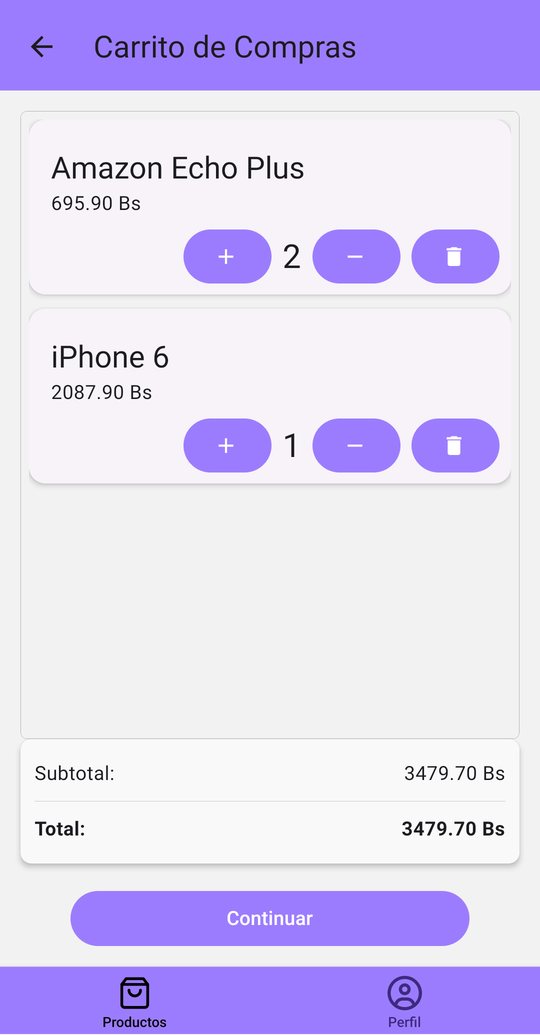
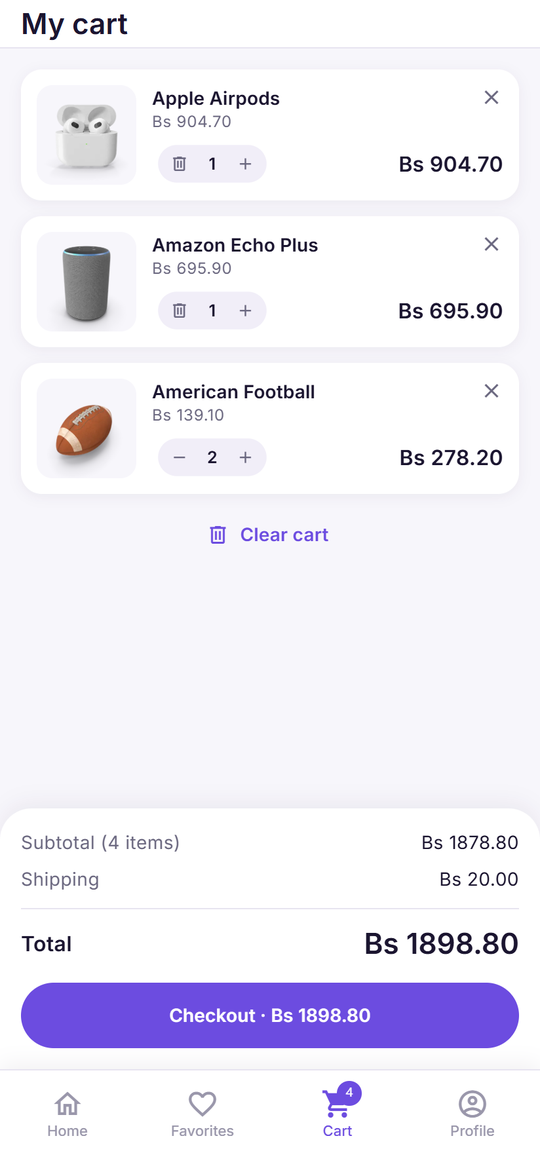
docs: refresh README and screenshots for the redesign
Document the redesigned app: new features (product detail, favorites,
three-step checkout, order timeline, profile stats), the design system,
the English UI and guest button, the updated tech stack, data model and
project structure, and the current test coverage. Replace the screenshots
with captures of every main screen plus the desktop web demo.

diff --git a/README.md b/README.md
@@ -11,8 +11,6 @@ Customers browse a catalog, fill a cart, pay with a saved card or a QR code, and
 route on a map. The backend enforces security with Postgres **row level security** and places orders
 through a **transactional RPC**, so prices and stock can never be tampered with from the client.
 
-> The app UI is in Spanish (it targets customers in Bolivia); code, docs and commits are in English.
-
 ## Live demo
 
 | Platform    | Link                                                      |
@@ -20,55 +18,75 @@ through a **transactional RPC**, so prices and stock can never be tampered with 
 | Web         | **[Open the web demo](https://compra-ya-wkz.vercel.app)** |
 | Android APK | [Download from GitHub Releases](../../releases/latest)    |
 
-Tap **"Entrar como invitado"** to explore with a shared demo account (no sign-up needed). For card
-payments use the test number `4242 4242 4242 4242` with any future expiry date. Payments are
+Tap **"Continue as guest"** to explore with a shared demo account (no sign-up needed). For card
+payments use the test number `4242 4242 4242 4242` with any future expiry date and CVC. Payments are
 simulated.
 
+![CompraYa web demo](docs/screenshots/web-demo.png)
+
+## Screenshots
+
 <p align="center">
-  <img src="docs/screenshots/catalog.png" width="200" alt="Catalog" />
+  <img src="docs/screenshots/welcome.png" width="200" alt="Welcome screen" />
+  <img src="docs/screenshots/home.png" width="200" alt="Home with banners, categories and product grid" />
+  <img src="docs/screenshots/product.png" width="200" alt="Product detail" />
   <img src="docs/screenshots/cart.png" width="200" alt="Cart" />
-  <img src="docs/screenshots/checkout.png" width="200" alt="Checkout" />
-  <img src="docs/screenshots/tracking.png" width="200" alt="Delivery tracking" />
+</p>
+<p align="center">
+  <img src="docs/screenshots/checkout.png" width="200" alt="Three-step checkout" />
+  <img src="docs/screenshots/order.png" width="200" alt="Order detail with status timeline" />
+  <img src="docs/screenshots/tracking.png" width="200" alt="Delivery tracking map" />
+  <img src="docs/screenshots/profile.png" width="200" alt="Profile" />
 </p>
 
 ## Features
 
 - **Authentication**: sign up, sign in, persistent sessions and password reset via an email deep link
   (Supabase Auth). The navigation tree is derived from the auth session.
-- **Catalog**: categories, debounced search, product details with attributes, stock and popularity,
-  loading/empty/error states and pull to refresh.
-- **Cart**: stored on the device (persisted across restarts) with quantity controls.
+- **Catalog**: promo banners, category chips, a "Popular now" carousel, a two-column product grid,
+  debounced search, skeleton loading and empty/error states.
+- **Product detail**: photo gallery, rating, stock status, expandable description, specs, related
+  products and a sticky "Add to cart" bar with a quantity stepper.
+- **Favorites**: save products with a heart; synced to Supabase with optimistic updates.
+- **Cart**: stored on the device (persisted across restarts) with thumbnails and quantity steppers.
+- **Checkout**: three steps (address → payment → review) that remember the last address, followed by
+  an animated order confirmation.
 - **Payments**
-  - Cards are validated on the device (Luhn checksum, brand detection, expiry). **Only the brand and
-    last four digits are stored.**
+  - Cards are validated on the device (Luhn checksum, brand detection, expiry) with a live card
+    preview. **Only the brand and last four digits are stored.**
   - QR payments render a dynamic QR code with the order amount and a unique reference.
 - **Orders**: placed atomically by the `create_order` Postgres function, which prices items server-side,
-  checks and decrements stock, and stores line items. Customers can track orders and confirm delivery.
+  checks and decrements stock, and stores line items. An orders screen and an order detail with a
+  status timeline let customers track and confirm deliveries.
 - **Delivery tracking**: route from the store to the delivery address with distance and ETA, using
   **keyless** providers: a Leaflet map with OpenStreetMap tiles, the native geocoder with an
   OpenStreetMap Nominatim fallback, and OSRM routing. No Google Maps API key is needed.
-- **Profile**: edit the display name, change the email (confirmed through Supabase Auth), order history.
+- **Profile**: stats (orders, deliveries, amount spent), saved cards, and editing the name or email
+  (confirmed through Supabase Auth).
+- **Design system**: shared color, spacing and radius tokens, a custom Material 3 theme, the Inter
+  typeface, reusable UI primitives, haptic feedback and branded toasts.
 - **Guest mode**: one-tap sign-in with a shared, read-only demo profile.
 - **Runs everywhere**: Android and iOS (Expo Go or EAS builds) and the web (static export on Vercel).
 
 ## Tech stack
 
-| Area          | Tools                                                                                                  |
-| ------------- | ------------------------------------------------------------------------------------------------------ |
-| App           | Expo SDK 57, React Native 0.86, React 19, React Native Web                                             |
-| Navigation    | React Navigation 7 (native stack + bottom tabs)                                                        |
-| UI            | React Native Paper (Material Design 3), Leaflet (in `react-native-webview`), `react-native-qrcode-svg` |
-| State & forms | Zustand (with persistence), React Hook Form, Zod                                                       |
-| Backend       | Supabase: Postgres, Auth, row level security, RPC functions                                            |
-| Quality       | ESLint (`eslint-config-expo`), Prettier, Jest + React Native Testing Library, GitHub Actions           |
-| Delivery      | Vercel (web), EAS Build (Android APK), scheduled Supabase keep-alive                                   |
+| Area          | Tools                                                                                                             |
+| ------------- | ----------------------------------------------------------------------------------------------------------------- |
+| App           | Expo SDK 57, React Native 0.86, React 19, React Native Web                                                        |
+| Navigation    | React Navigation 7 (native stack + bottom tabs)                                                                   |
+| UI            | React Native Paper (Material Design 3, custom theme), Inter, `expo-image`, `expo-linear-gradient`, `expo-haptics` |
+| Maps & QR     | Leaflet (in `react-native-webview`), OpenStreetMap, OSRM, `react-native-qrcode-svg`                               |
+| State & forms | Zustand (with persistence), React Hook Form, Zod                                                                  |
+| Backend       | Supabase: Postgres, Auth, row level security, RPC functions                                                       |
+| Quality       | ESLint (`eslint-config-expo`), Prettier, Jest + React Native Testing Library, GitHub Actions                      |
+| Delivery      | Vercel (web), EAS Build (Android APK), scheduled Supabase keep-alive                                              |
 
 ## Architecture
 
 ```mermaid
 flowchart LR
   subgraph App["Expo app"]
-    UI["Screens & components"] --> Stores["Zustand stores<br/>(session, cart, payments)"]
+    UI["Screens & components"] --> Stores["Zustand stores<br/>(session, cart, favorites, payments)"]
     UI --> Services["Services<br/>(api, auth, maps)"]
     Stores --> Services
   end
@@ -106,6 +124,8 @@ erDiagram
   metodos_pago ||--o{ ordenes : "paid with"
   ordenes ||--|{ items_orden : contains
   productos ||--o{ items_orden : "snapshot of"
+  usuarios ||--o{ favoritos : saves
+  productos ||--o{ favoritos : "saved as"
 ```
 
 The schema is versioned in [`supabase/migrations`](supabase/migrations) and demo data in
@@ -150,7 +170,7 @@ _Project Settings → API Keys_, or `npx supabase projects api-keys`). Never put
 `EXPO_PUBLIC_*` values are bundled into the app.
 
 Optionally set `EXPO_PUBLIC_DEMO_EMAIL` / `EXPO_PUBLIC_DEMO_PASSWORD` to the credentials of an account
-you create for visitors; this enables the **"Entrar como invitado"** button.
+you create for visitors; this enables the **"Continue as guest"** button.
 
 ### 4. Run
 
@@ -210,19 +230,20 @@ if needed.
 
 ```
 src/
-├── components/     Reusable UI (product card, order card, header, form input…)
+├── components/     Feature components (product card, card preview, order timeline…)
+│   └── ui/         Design-system primitives (Screen, Header, Price, Rating, QuantityStepper…)
 ├── config/         App constants (store location, delivery area)
 ├── lib/            Supabase client
-├── navigation/     Root (auth-gated), auth, tabs, shop and profile navigators
+├── navigation/     Root (auth-gated), auth, tabs and per-tab stacks
 ├── schemas/        Zod form schemas
 ├── screens/
 │   ├── auth/       Welcome, sign in, register, forgot/reset password
-│   ├── shop/       Products, cart, checkout, payment methods, card form, QR, delivery map
-│   └── profile/    Profile and order history, edit profile
+│   ├── shop/       Home, product detail, favorites, cart, checkout, payments, QR, confirmation, map
+│   └── profile/    Profile, orders, order detail, edit profile
 ├── services/       Backend API, auth deep links, maps (geocoding + routing)
-├── stores/         Zustand stores: session/user, cart, payment methods
-├── styles/         Shared styles
-└── utils/          Pure helpers (cards, order totals) — unit tested
+├── stores/         Zustand stores: session/user, cart, checkout, favorites, payment methods
+├── theme/          Design tokens, Material 3 theme and fonts
+└── utils/          Pure helpers (cards, orders, order status, products, retry) — unit tested
 supabase/
 ├── migrations/     Versioned schema, RLS policies and functions
 └── seed.sql        Demo catalog
@@ -234,9 +255,11 @@ supabase/
 npm test
 ```
 
-The suite covers card validation, order totals, form schemas, password reset links, the cart store
-(including order placement through the RPC) and product card interactions. Supabase is mocked, so tests
-run offline. CI runs lint, formatting, tests and an Android bundle on every push.
+64 tests across 15 suites cover card validation, order totals and status timelines, form schemas,
+password reset links, the cart and favorites stores (including optimistic updates and order placement
+through the RPC), request retries and UI components such as the product card, quantity stepper and
+checkout summary. Supabase is mocked, so tests run offline. CI runs lint, formatting, tests and an
+Android bundle on every push.
 
 ## Notes
 

diff --git a/docs/screenshots/README.md b/docs/screenshots/README.md
@@ -1,10 +1,9 @@
 # Screenshots
 
-Images used by the main README, captured on an Android emulator (Pixel 5, Expo Go):
+Images used by the main README, captured from the web build in a 412 × 880 phone viewport:
 
-- `catalog.png`: product list with category chips
-- `cart.png`: cart with quantities and subtotal
-- `checkout.png`: order summary with the selected payment method
-- `tracking.png`: delivery map with route, distance and ETA
+- `welcome.png`, `home.png`, `product.png`, `cart.png`
+- `checkout.png`, `order.png`, `tracking.png`, `profile.png`
+- `web-demo.png`: the desktop web demo with the product showcase
 
-To refresh them, keep the same file names: 540 px wide portrait PNGs without the system bars.
+To refresh them, keep the same file names: 540 px wide portrait PNGs (1280 px for `web-demo.png`).
